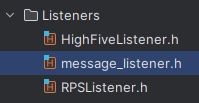
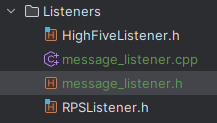
docs: rewrote separate-events.md to follow better practices.
separate-events.md was previously stating you should only use a .h file, rather than a .h and .cpp file. This is now changed.

diff --git a/docpages/advanced_reference/separate-events.md b/docpages/advanced_reference/separate-events.md
@@ -6,7 +6,7 @@ In this tutorial, we'll be taking the [Listening to messages](/detecting-message
 
 To get started, you can create a folder called `listeners` inside `src` (where your `main.cpp` is) if you'd like to put it there! We'll be doing exactly that so, if you'd like to stick along with the tutorial, get creating that folder!
 
-Now, you can create a new header file in this folder! You don't need the cpp file as you can still write code in the header so, if your IDE creates a `.cpp` file, feel free to delete it! For this tutorial, we'll be naming this file `message_listener`!
+Now, you can create a new header and cpp file in this folder! For this tutorial, we'll be naming both these files `message_listener`!
 
 If you're using CMake, you'll need to add this to your `CMakeLists.txt`. Some IDEs automatically do this but it's always worth double-checking!
 
@@ -14,7 +14,7 @@ Once that's done, it should look similar to this (this screenshot has more files
 
 \image html file_example_listeners.png
 
-Now, let's go ahead and write some code in this `message_listener.h`.
+First, we need to define the function that will be called when the event fires. We do this in the `message_listener.h`, like so:
 
 ~~~~~~~~~~{.cpp}
 #pragma once
@@ -26,17 +26,25 @@ class message_listener {
 public:
 
     /* Create a static function that can be called anywhere. */
-    static void on_message_create(const dpp::message_create_t& event) {
-
-        /* See if the message contains the phrase we want to check for.
-         * If there's at least a single match, we reply and say it's not allowed.
-         */
-        if (event.msg.content.find("bad word") != std::string::npos) {
-            event.reply("That is not allowed here. Please, mind your language!", true);
-        }
-    }
+    static void on_message_create(const dpp::message_create_t& event);
 
 };
+~~~~~~~~~~
+
+Then we need to add our code for what should happen when this event fires. We do this in the `message_listener.cpp`, like so:
+
+~~~~~~~~~~{.cpp}
+#include "message_listener.h"
+
+void message_listener::on_message_create(const dpp::message_create_t &event) {
+    /* See if the message contains the phrase we want to check for.
+     * If there's at least a single match, we reply and say it's not allowed.
+     */
+    if (event.msg.content.find("bad word") != std::string::npos) {
+        event.reply("That is not allowed here. Please, mind your language!", true);
+    }
+}
+
 ~~~~~~~~~~
 
 Now, you'll have a nice area where you can easily see the code, without scrolling through all of your `main.cpp` file just to get to this event!
